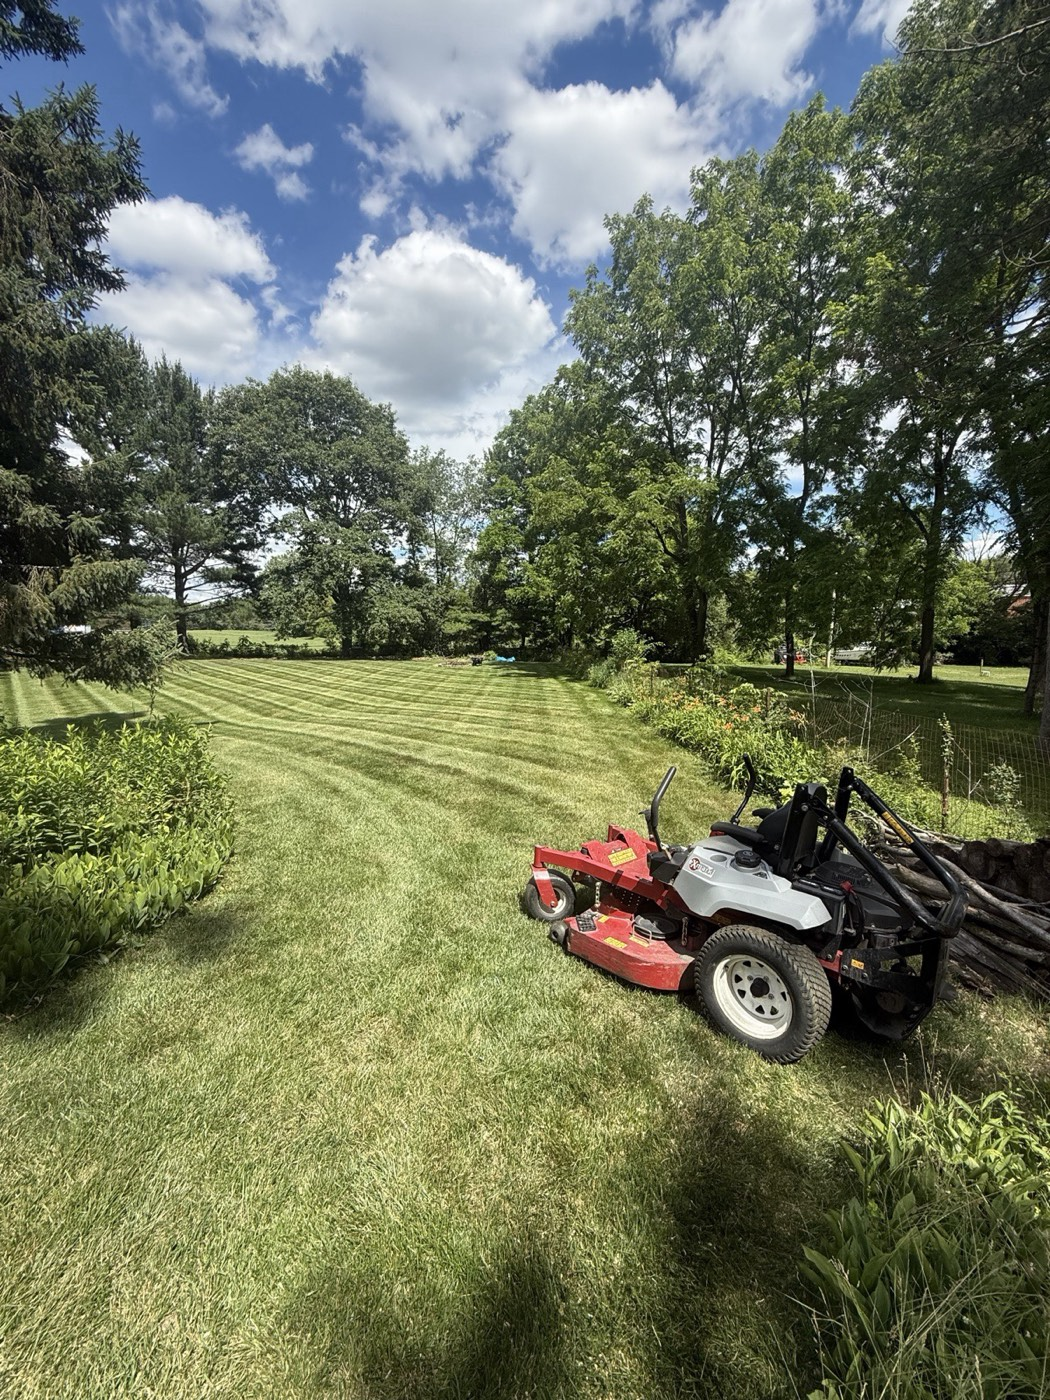
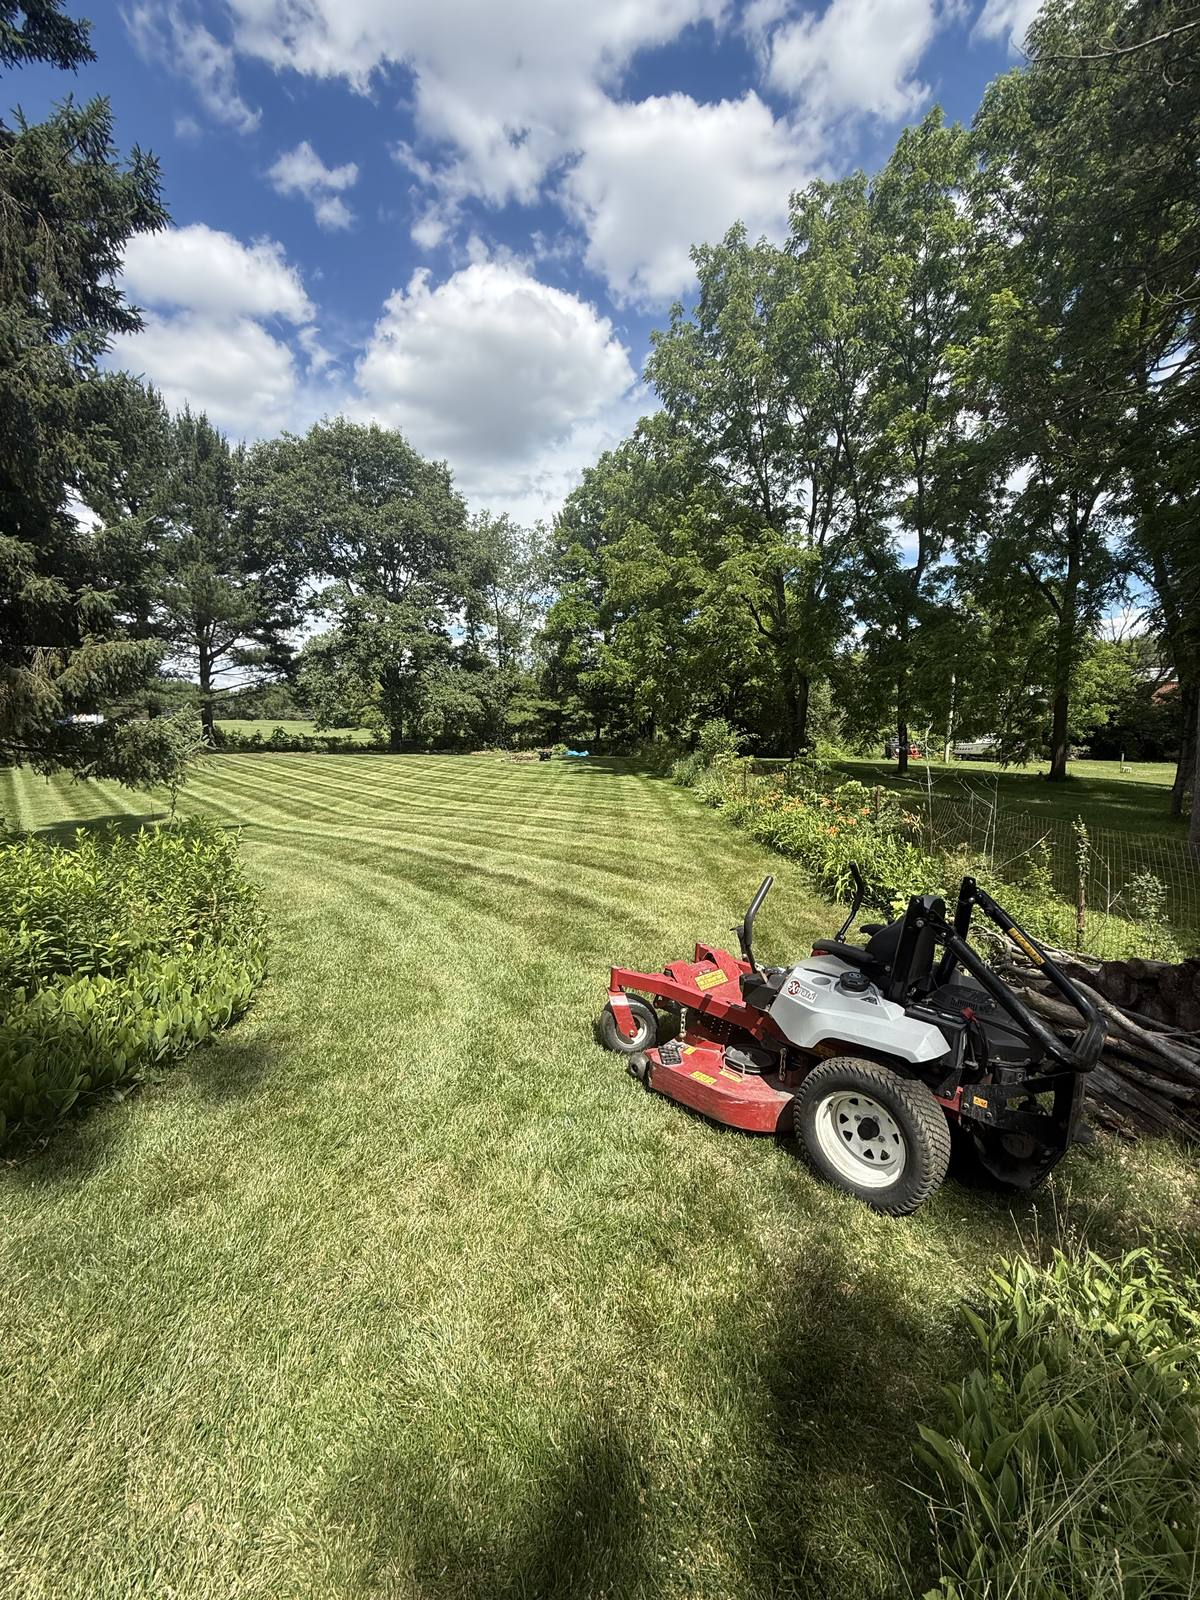
content: fix mower orientation, drop sidewalk photo, full-bleed video
- Re-bake work-2 (mower) orientation from HEIC via exif_transpose so Next's
  image optimizer serves it upright (EXIF-flag rotation was being ignored)
- Remove the sidewalk/hydrant photo (work-9) from the gallery per Joey
- Aerial video is now full-bleed and borderless (no ring/frame), capped at 85vh

diff --git a/components/AerialShowcase.tsx b/components/AerialShowcase.tsx
@@ -3,15 +3,17 @@ import ShowcaseVideo from "./ShowcaseVideo";
 import Reveal from "./Reveal";
 
 /**
- * Aerial video showcase — the home-page centerpiece. A wide framed drone flyover
- * on a deep navy band. The video is muted, loops, and only plays while on screen
- * (see ShowcaseVideo); the poster carries first paint so there's no layout shift.
+ * Aerial video showcase — the home-page centerpiece. The heading sits on a deep
+ * navy band; the drone flyover runs full-bleed (edge to edge, no frame) below it
+ * so it's big and easy to watch. The video is muted, loops, and only plays while
+ * on screen (see ShowcaseVideo); the poster carries first paint so there's no
+ * layout shift.
  */
 export default function AerialShowcase() {
   const { showcase } = site;
 
   return (
-    <section className="bg-gradient-to-b from-pine to-pine-dark py-20 text-birch sm:py-28">
+    <section className="bg-gradient-to-b from-pine to-pine-dark pt-20 text-birch sm:pt-28">
       <div className="container-page">
         <Reveal className="mx-auto max-w-2xl text-center">
           <p className="eyebrow mb-4 text-birch">{showcase.eyebrow}</p>
@@ -20,16 +22,17 @@ export default function AerialShowcase() {
           </h2>
           <p className="mt-4 text-base text-birch/75">{showcase.sub}</p>
         </Reveal>
-
-        <Reveal className="mx-auto mt-12 max-w-4xl overflow-hidden rounded-3xl bg-black shadow-panel ring-1 ring-white/10">
-          <ShowcaseVideo
-            sources={showcase.sources}
-            poster={showcase.poster}
-            label={showcase.label}
-            className="block aspect-video w-full object-cover"
-          />
-        </Reveal>
       </div>
+
+      {/* Full-bleed video — no border, capped height so it stays reasonable on wide screens. */}
+      <Reveal className="mt-10 bg-black sm:mt-14">
+        <ShowcaseVideo
+          sources={showcase.sources}
+          poster={showcase.poster}
+          label={showcase.label}
+          className="block aspect-video max-h-[85vh] w-full object-cover"
+        />
+      </Reveal>
     </section>
   );
 }

diff --git a/site.config.ts b/site.config.ts
@@ -418,10 +418,6 @@ export const site = {
         alt: "A neatly striped lawn under a clear blue sky",
       },
       {
-        src: "/images/work-9.jpg",
-        alt: "A riding mower maintaining the lawn at a commercial property",
-      },
-      {
         src: "/images/work-10.jpg",
         alt: "A freshly mowed commercial lot bordered by black fencing",
       },